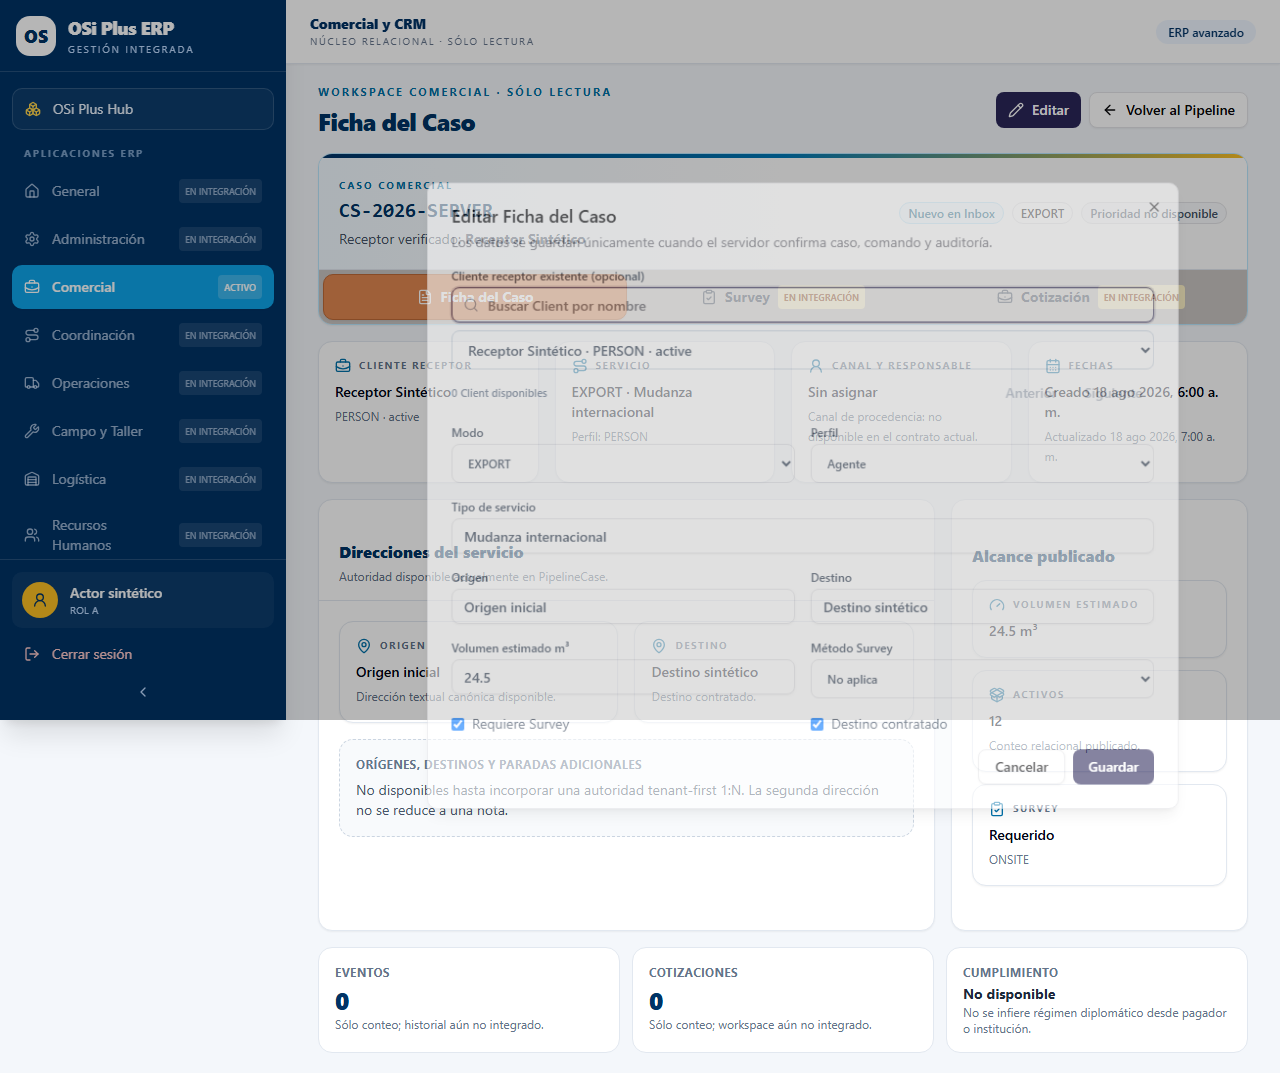
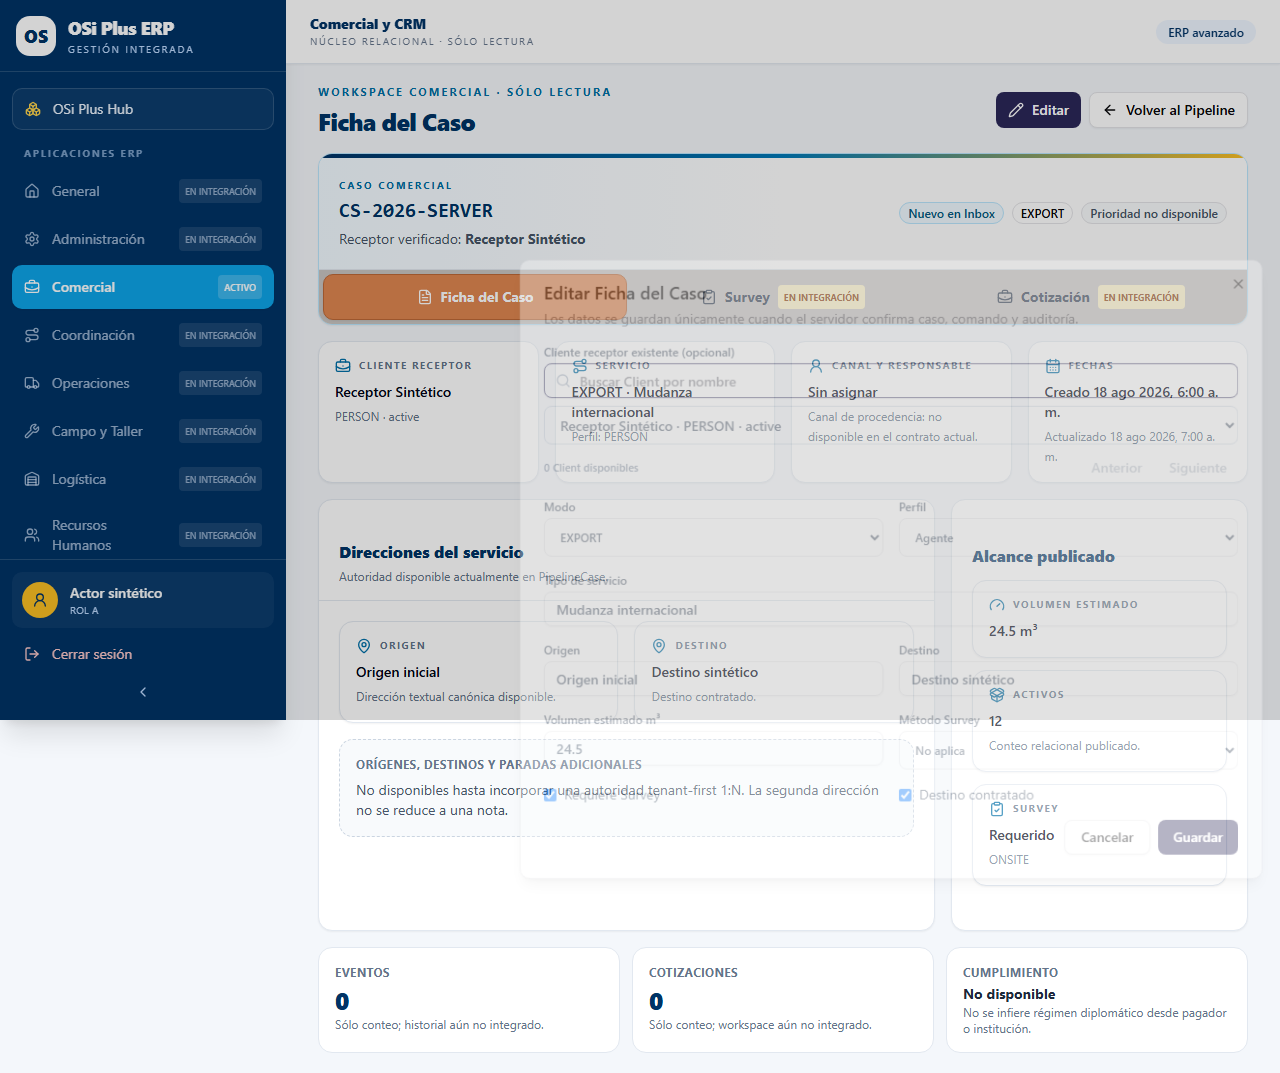
test(crm): align strict clients with mutation detail DTO

diff --git a/tests/crm-01b3b2/relational-pipeline.spec.ts b/tests/crm-01b3b2/relational-pipeline.spec.ts
@@ -6,11 +6,22 @@ const caseRefFor = (index: number) => `11111111-1111-4111-8111-${String(index + 
 
 function pipelineCase(overrides: Record<string, unknown> = {}) {
   return {
-    caseRef: CASE_REF, caseCode: "CRM-001", client: { displayName: "Cliente sintético", type: "PERSON", status: "active" }, mode: "LOCAL", serviceType: "MUDANZA",
+    caseRef: CASE_REF, caseCode: "CRM-001", client: { clientRef: "22222222-2222-4222-8222-222222222222", displayName: "Cliente sintético", type: "PERSON", status: "active" }, mode: "LOCAL", serviceType: "MUDANZA",
     customerType: "L3_CORPORATE", status: "NEW_INBOX", estimatedCbm: 12.5, requiresSurvey: false, surveyMethod: "NO_APLICA",
     originLocation: "Origen local", destinationLocation: "Destino local", destinationContracted: true, assetsCount: 3,
     owner: { displayName: "Vendedor sintético", role: "V", membershipStatus: "ACTIVE" }, quoteCount: 1, eventCount: 2,
     createdAt: "2026-08-12T12:00:00.000Z", updatedAt: "2026-08-12T12:10:00.000Z", ...overrides,
+  };
+}
+
+function pipelineCaseDetail(overrides: Record<string, unknown> = {}) {
+  const row = pipelineCase(overrides);
+  return {
+    ...row,
+    version: 1,
+    owner: row.owner && typeof row.owner === "object"
+      ? { displayName: String((row.owner as Record<string, unknown>).displayName), isCurrentActor: true }
+      : null,
   };
 }
 
@@ -57,7 +68,7 @@ async function mockApi(page: Page, options: MockOptions = {}) {
     }
     if (url.pathname === `/api/crm/pipeline-cases/${CASE_REF}`) {
       if (options.detail) return options.detail(route);
-      return json({ ok: true, data: options.caseData ?? pipelineCase() });
+      return json({ ok: true, data: pipelineCaseDetail(options.caseData ?? {}) });
     }
     if (url.pathname === "/api/crm/pipeline-cases") {
       if (options.list) return options.list(route, url);
@@ -195,14 +206,14 @@ test("lista rechaza autoridad interna, parciales, tipos y arrays excesivos", asy
 });
 
 test("detalle rechaza IDs internos, parciales y tipos incorrectos", async ({ context }) => {
-  const missingStatus = pipelineCase();
+  const missingStatus = pipelineCaseDetail();
   delete missingStatus.status;
   const variants = [
-    { ok: true, data: { ...pipelineCase(), tenantId: "internal-tenant" } },
-    { ok: true, data: { ...pipelineCase(), ownerMembershipId: "internal-membership" } },
-    { ok: true, data: { ...pipelineCase(), clientId: "internal-client" } },
+    { ok: true, data: { ...pipelineCaseDetail(), tenantId: "internal-tenant" } },
+    { ok: true, data: { ...pipelineCaseDetail(), ownerMembershipId: "internal-membership" } },
+    { ok: true, data: { ...pipelineCaseDetail(), clientId: "internal-client" } },
     { ok: true, data: missingStatus },
-    { ok: true, data: { ...pipelineCase(), estimatedCbm: "12.5" } },
+    { ok: true, data: { ...pipelineCaseDetail(), estimatedCbm: "12.5" } },
   ];
   for (const payload of variants) await expectInvalidDetailResponse(context, payload);
 });
@@ -572,7 +583,7 @@ test("texto hostil se acota y se renderiza como texto sin ejecutar ni navegar", 
   const hostile = `<img src=x onerror=window.__crmPwned=1><svg onload=window.__crmPwned=2></svg>javascript:alert(1)\u202E${"X".repeat(1200)}`;
   const external: string[] = [];
   page.on("request", (request) => { if (!request.url().startsWith("http://127.0.0.1:4182")) external.push(request.url()); });
-  await mockApi(page, { caseData: pipelineCase({ caseCode: hostile, client: { displayName: hostile, type: "PERSON", status: "active" }, owner: { displayName: hostile, role: "V", membershipStatus: "ACTIVE" }, serviceType: hostile, originLocation: hostile, destinationLocation: hostile }) });
+  await mockApi(page, { caseData: pipelineCase({ caseCode: hostile, client: { clientRef: "22222222-2222-4222-8222-222222222222", displayName: hostile, type: "PERSON", status: "active" }, owner: { displayName: hostile, role: "V", membershipStatus: "ACTIVE" }, serviceType: hostile, originLocation: hostile, destinationLocation: hostile }) });
   await page.goto("/tests/crm-01b3b2/harness.html");
   await expect(page.getByText(hostile, { exact: true }).first()).toBeVisible();
   expect(await page.evaluate(() => (window as Window & { __crmPwned?: number }).__crmPwned ?? 0)).toBe(0);

diff --git a/tests/v17-commercial-crm/commercial-inbox.spec.ts b/tests/v17-commercial-crm/commercial-inbox.spec.ts
@@ -457,6 +457,7 @@ test("resolvers fallan cerrado ante valores y entornos ambiguos", async ({ page 
   await page.goto("/tests/v17-commercial-crm/read-api-harness.html");
   const result = await page.evaluate(async () => {
     const crm = await import("/src/crm-relational/clientMode.ts");
+    const mutationApi = await import("/src/crm-relational/mutationApi.ts");
     const hub = await import("/src/hub/hubMode.ts");
     const loopbacks = ["localhost", "127.0.0.1", "[::1]"];
     const invalidValues = ["local_only", " LOCAL_ONLY", "LOCAL_ONLY ", "\"LOCAL_ONLY\"", "\ufeffLOCAL_ONLY", "LOCAL_ONLY\r", "LOCAL_ONLY\n", "UNKNOWN"];
@@ -469,9 +470,11 @@ test("resolvers fallan cerrado ante valores y entornos ambiguos", async ({ page 
       remote: remoteHosts.every((hostname) => !crm.isRelationalCrmReadEnabled({ VITE_CRM_PIPELINE_CLIENT_MODE: "LOCAL_ONLY", VITE_CRM_PIPELINE_READ_MODE: "READ_ONLY" }, { hostname })),
       vercel: ["VERCEL", "VERCEL_ENV", "VERCELX"].every((key) => !crm.isRelationalCrmReadEnabled({ VITE_CRM_PIPELINE_CLIENT_MODE: "LOCAL_ONLY", VITE_CRM_PIPELINE_READ_MODE: "READ_ONLY", [key]: "1" }, { hostname: "127.0.0.1" })
         && !hub.resolveOsiHubMode({ VITE_OSI_HUB_MODE: "LOCAL_ONLY", [key]: "1" }, { hostname: "127.0.0.1" }).enabled),
+      mutation: mutationApi.isCrmCaseMutationUiEnabled({ VITE_CRM_PIPELINE_CLIENT_MODE: "LOCAL_ONLY", VITE_CRM_PIPELINE_READ_MODE: "READ_ONLY", VITE_CRM_PIPELINE_CASE_MUTATION_MODE: "LOCAL_ONLY" }, { hostname: "127.0.0.1" }),
+      mutationPartial: [undefined, "DISABLED", "local_only", " LOCAL_ONLY", "LOCAL_ONLY ", "PREVIEW_REHEARSAL"].every((value) => !mutationApi.isCrmCaseMutationUiEnabled({ VITE_CRM_PIPELINE_CLIENT_MODE: "LOCAL_ONLY", VITE_CRM_PIPELINE_READ_MODE: "READ_ONLY", ...(value === undefined ? {} : { VITE_CRM_PIPELINE_CASE_MUTATION_MODE: value }) }, { hostname: "127.0.0.1" })),
     };
   });
-  expect(result).toEqual({ loopbacks: true, invalid: true, remote: true, vercel: true });
+  expect(result).toEqual({ loopbacks: true, invalid: true, remote: true, vercel: true, mutation: true, mutationPartial: true });
 });
 
 test("adaptador HTTP rechaza contratos adversariales y conserva Bearer sólo en header", async ({ page }) => {
